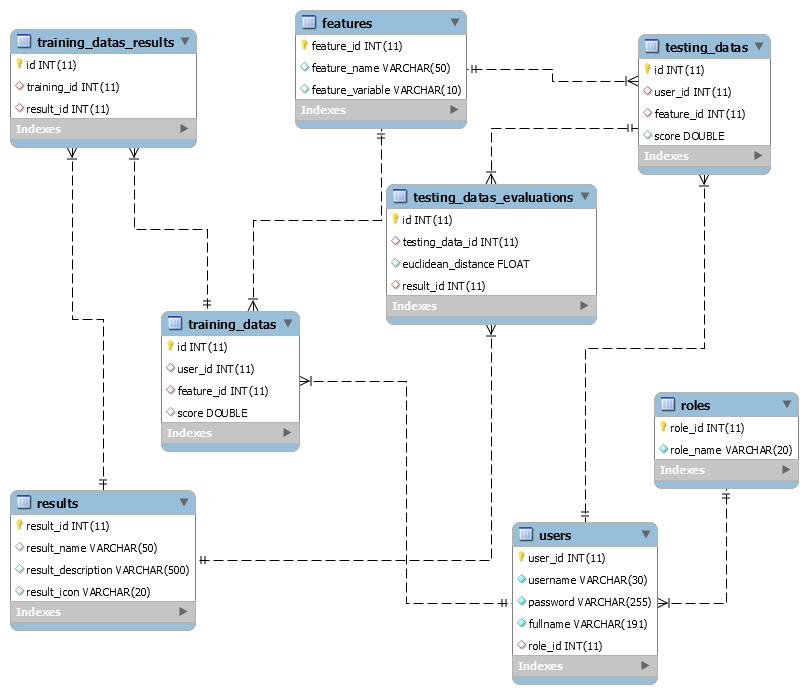
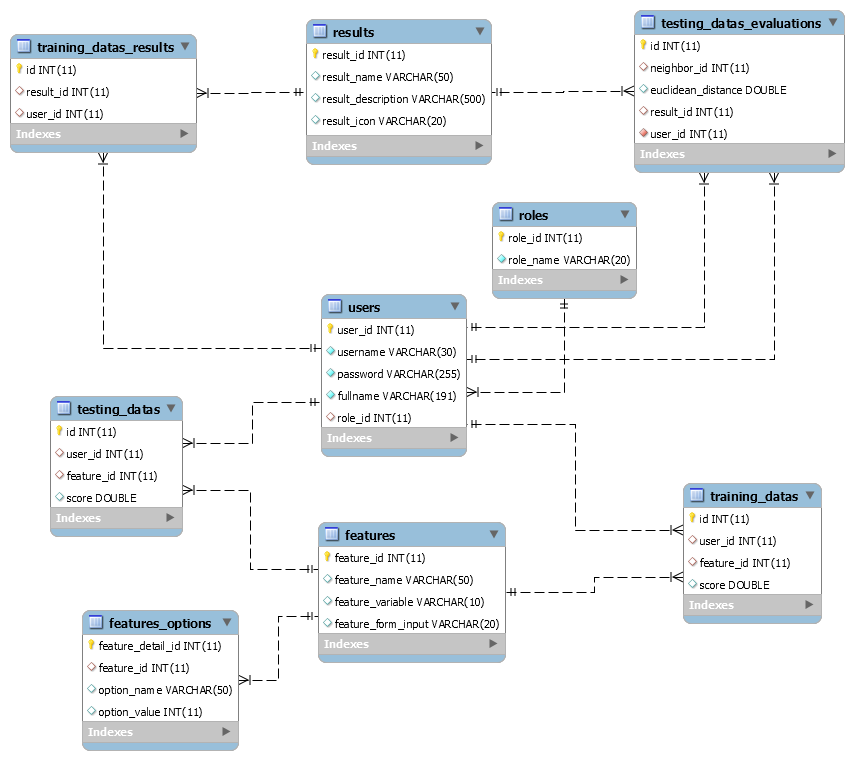
recomendation interest for IT college student

diff --git a/assets/css/style.css b/assets/css/style.css
@@ -1219,6 +1219,24 @@ h5 {
     color: #fff
 }
 
+
+.button-edit {
+    background: -moz-linear-gradient(136deg, #dd4242 0%, #ee0000 50%, #ff4a4a 100%);
+    background: -webkit-linear-gradient(136deg, #dd4242 0%, #ee0000 50%, #ff4a4a 100%);
+    background: -ms-linear-gradient(136deg, #dd4242 0%, #ee0000 50%, #ff4a4a 100%);
+    color: #fff;
+    border: 2px solid #ee0000;
+    box-shadow: 1px 1px rgba(0, 0, 0, 0.514);
+}
+
+.button-edit:hover {
+    background: -moz-linear-gradient(136deg, #d43a3a 0%, #db0101 50%, #e74343 100%);
+    background: -webkit-linear-gradient(136deg, #d43a3a 0%, #db0101 50%, #e74343 100%);
+    background: -ms-linear-gradient(136deg, #d43a3a 0%, #db0101 50%, #e74343 100%);
+    border: 2px solid #db0101;
+    color: #fff
+}
+
 .button-contactForm {
     background: -moz-linear-gradient(136deg, #597cfb 0%, #002ccc 50%, #3b7fcc 100%);
     background: -webkit-linear-gradient(136deg, #597cfb 0%, #002ccc 50%, #3b7fcc 100%);

diff --git a/assets/js/form/result.js b/assets/js/form/result.js
@@ -1,0 +1,11 @@
+$('#deleteForm').click(function () {
+
+    $.ajax({
+        url: "delete.php",
+        type: 'POST',
+        success: function () {
+            window.location.href = "../testing";
+        }
+    })
+
+})

diff --git a/result/index.php b/result/index.php
@@ -30,36 +30,40 @@
                         <ul class="nav nav-tabs">
                             <li class="nav-item text-center">
                                 <a class="active" data-toggle="tab" href="#k_nearest_neighbors">
-                                    <h4>K-Nearest Neighbors</h4>
+                                    <h4>Hasil Prediksi Rekomendasi</h4>
                                 </a>
                             </li>
                         </ul>
+                        <div class="d-flex justify-content-end">
+                            <button class="button button-edit mt-0" id="deleteForm">Coba lagi</button>
+                        </div>
                         <div class="tab-content">
                             <div id="k_nearest_neighbors" class="tab-pane active">
-                            <?php require_once('index.datas.php'); ?>
-                            <?php if($statusData): ?>
+                                <?php require_once('index.datas.php'); ?>
+                                <?php if($statusData): ?>
                                 <?php foreach($resultKnn as $dataKnn): ?>
-                                    <div class="schedule-card">
-                                        <div class="row no-gutters">
-                                            <div class="col-md-3">
-                                                <div class="card-identity">
-                                                    <img src="../assets/images/interest/<?= $dataKnn->result_icon ?>" alt="">
-                                                    <h3>#<?= $rankingKnn++ ?></h3>
-                                                    <p><?= $dataKnn->result_name ?></p>
-                                                </div>
+                                <div class="schedule-card">
+                                    <div class="row no-gutters">
+                                        <div class="col-md-3">
+                                            <div class="card-identity">
+                                                <img src="../assets/images/interest/<?= $dataKnn->result_icon ?>"
+                                                    alt="">
+                                                <h3>#<?= $rankingKnn++ ?></h3>
+                                                <p><?= $dataKnn->result_name ?></p>
                                             </div>
-                                            <div class="col-md-9 align-self-center">
-                                                <div class="schedule-content">
-                                                    <a class="schedule-title" href="#">
-                                                        <h3><?= $dataKnn->result_name ?></h3>
-                                                    </a>
-                                                    <p><?= $dataKnn->result_description ?></p>
-                                                </div>
+                                        </div>
+                                        <div class="col-md-9 align-self-center">
+                                            <div class="schedule-content">
+                                                <a class="schedule-title" href="#">
+                                                    <h3><?= $dataKnn->result_name ?></h3>
+                                                </a>
+                                                <p><?= $dataKnn->result_description ?></p>
                                             </div>
                                         </div>
                                     </div>
+                                </div>
                                 <?php endforeach ?>
-                            <?php endif ?>
+                                <?php endif ?>
                             </div>
                         </div>
                     </div>
@@ -74,6 +78,7 @@
 
     <!-- Javascript -->
     <?php require_once('../layout/js.php'); ?>
+    <script src="../assets/js/form/result.js"></script>
 
 
 </body>

diff --git a/testing/index.php b/testing/index.php
@@ -223,7 +223,7 @@
                             <span class="step-icon"><i class="zmdi zmdi-receipt"></i></span>
                             <span class="step-text">Data Nilai</span>
                         </h2>
-                        <section>
+                        <section id="inputData">
                             <div class="inner">
                                 <h3>Masukkan <i>data</i> sesuai format berikut</h3>
                                 <div class="form-row">
@@ -242,6 +242,23 @@
                                                     <?php foreach($optionDatas as $option): ?>
                                                         <option value="<?= $option->option_value ?>"><?= $option->option_name ?></option>
                                                     <?php endforeach ?>
+                                                </select>
+                                            </div>
+                                        <?php elseif($key["Input"] == "subject"): ?>
+                                            <div class="form-group col-md-6">
+                                                <label><?= $key["Name"] ?> (<?= $key["Variable"] ?>)</label>
+                                                <select class="form-control" name="score[]">
+                                                    <option value="4">A</option>
+                                                    <option value="3.75">A-</option>
+                                                    <option value="3.5">B+</option>
+                                                    <option value="3">B</option>
+                                                    <option value="2.75">B-</option>
+                                                    <option value="2.5">C+</option>
+                                                    <option value="2">C</option>
+                                                    <option value="1.75">C-</option>
+                                                    <option value="1.5">D+</option>
+                                                    <option value="1">D</option>
+                                                    <option value="0">E</option>
                                                 </select>
                                             </div>
                                         <?php endif ?>

diff --git a/testing/index.server.php b/testing/index.server.php
@@ -26,12 +26,16 @@ if (isset($_POST['csrf_token']) && $_POST['csrf_token'] === $_SESSION['csrf_toke
                 $data[$row->fullname][$row->feature_id] = array();
             }
             $data[$row->fullname][$row->feature_id] = $row->score;
-            $features[] = $row->feature_id;
-            $results[$row->fullname] = $row->result_id;
+            $features[]   = $row->feature_id;
+
+            $results[$row->fullname]    = $row->result_id;
+            $neighbors[$row->fullname]  = $row->user_id;
 
         }
         $feature      = array_unique($features);
         $countFeature = count($feature);
+
+
 
         $i = 0;
         foreach($feature as $f) {
@@ -53,9 +57,6 @@ if (isset($_POST['csrf_token']) && $_POST['csrf_token'] === $_SESSION['csrf_toke
             $add->bindParam("score", $featureScore);
             $add->execute();
         }
-
-
-        $testId = $connection->lastInsertId();
         
         //Mencari Kuadrat
         $square = array();
@@ -83,18 +84,23 @@ if (isset($_POST['csrf_token']) && $_POST['csrf_token'] === $_SESSION['csrf_toke
         }
         
         //Masukkan Nilai Euclidean Distance
+        $e = 0;
         foreach($euclideanDistances as $name => $score) {
             $result            = $results[$name];
             $euclideanDistance = $score;
+            $neighborId        = $neighbors[$name];
+
+
 
             $evaluations = $connection->prepare(
-                "INSERT INTO testing_datas_evaluations (testing_data_id, euclidean_distance, result_id) 
-                VALUES (:testId, :euclidean_distance, :result)"
+                "INSERT INTO testing_datas_evaluations (neighbor_id, euclidean_distance, result_id, user_id) 
+                VALUES (:neighbor_id, :euclidean_distance, :result, :id)"
             );
         
-            $evaluations->bindParam("testId", $testId);
+            $evaluations->bindParam("neighbor_id", $neighborId);
             $evaluations->bindParam("euclidean_distance", $euclideanDistance);
             $evaluations->bindParam("result", $result);
+            $evaluations->bindParam("id", $id);
             $evaluations->execute();
         }
 

diff --git a/layout/header.php b/layout/header.php
@@ -21,10 +21,10 @@
                                     <li class="nav-item"><a class="nav-link" href="../testing">K-Nearest Neighbors</a>
                                 </ul>
                             </li>
-                            <?php if(isset($_SESSION['college_student_username'])): ?>
+                            <?php if(isset($_COOKIE['college_student_username'])): ?>
                             <li class="nav-item submenu dropdown">
                                 <a href="#" class="nav-link dropdown-toggle text-uppercase" data-toggle="dropdown" role="button"
-                                    aria-haspopup="true" aria-expanded="false"><?= $_SESSION['college_student_username'] ?></a>
+                                    aria-haspopup="true" aria-expanded="false"><?= $_COOKIE['college_student_username'] ?></a>
                                 <ul class="dropdown-menu">
                                     <li class="nav-item"><a class="nav-link" href="../user/logout">Logout</a>
                                 </ul>

diff --git a/result/delete.php b/result/delete.php
@@ -1,0 +1,30 @@
+<?php
+session_start();
+if (isset($_POST['csrf_token']) && $_POST['csrf_token'] === $_SESSION['csrf_token']) {
+    require('../database/db.php');
+    if(isset($_SESSION['college_student_id'])) {
+        $id = $_SESSION['college_student_id'];
+
+        $deleteEvaluations = $connection->prepare(
+            "DELETE FROM testing_datas_evaluations
+            WHERE user_id=:id");
+    
+        $deleteEvaluations->bindParam("id", $id);
+        $deleteEvaluations->execute();
+
+        if($deleteEvaluations) {
+                
+            $deleteTestingDatas = $connection->prepare(
+                "DELETE FROM testing_datas
+                WHERE user_id=:id");
+        
+            $deleteTestingDatas->bindParam("id", $id);
+            $deleteTestingDatas->execute();
+
+        }
+
+        
+    }
+}
+
+?>

diff --git a/result/index.datas.php b/result/index.datas.php
@@ -4,11 +4,15 @@
 
 
     $evaluationDatas = $connection->prepare(
-        "SELECT * FROM testing_datas_evaluations e 
-        JOIN results r ON e.result_id=r.result_id
-        JOIN testing_datas n ON n.id=e.testing_data_id
-        WHERE n.user_id=:user_id
-        GROUP BY e.result_id ORDER BY euclidean_distance ASC LIMIT 3");
+        "SELECT * FROM results r 
+        INNER JOIN (
+            SELECT result_id, min(euclidean_distance) euclidean_distance FROM testing_datas_evaluations tde
+            WHERE tde.user_id=:user_id 
+            GROUP BY tde.result_id
+            ) as b 
+            
+            ON b.result_id = r.result_id
+            ORDER BY euclidean_distance ASC LIMIT 3");
 
     $evaluationDatas->bindParam("user_id", $id);
     $evaluationDatas->execute();
